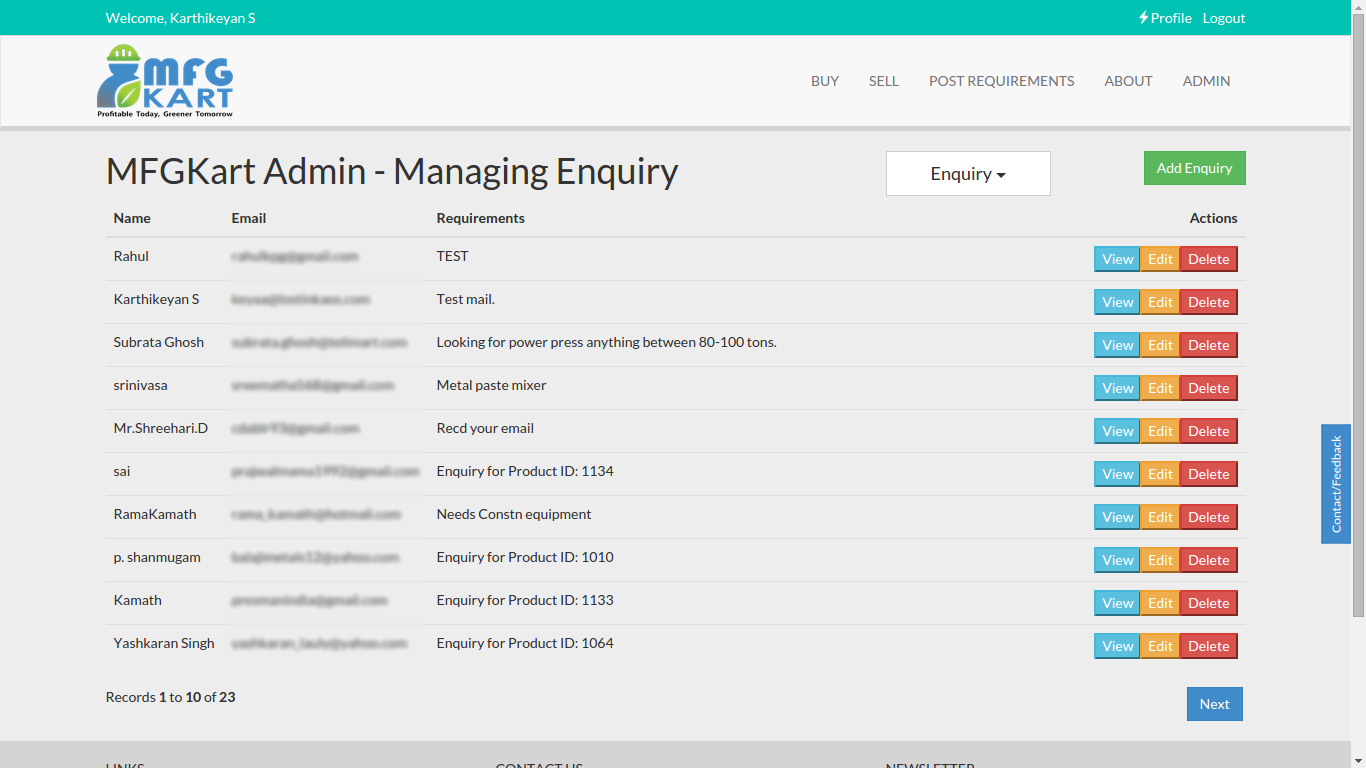
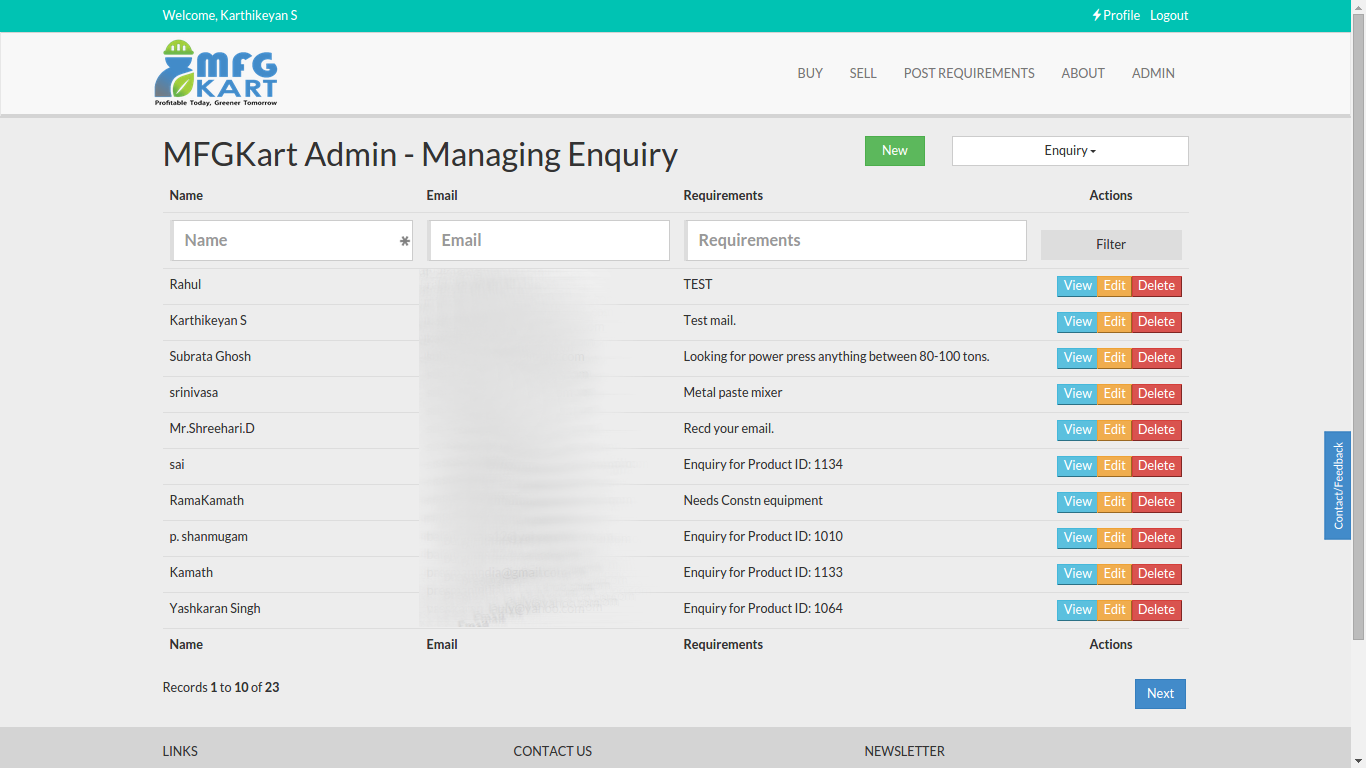
Updated screenshots to show filter feature

diff --git a/README.md b/README.md
@@ -72,9 +72,15 @@ You will have to check for user authentication and level before you send them to
 
 ### Screenshots ###
 
+Fitler forms fields take your webiste styling.
+
 ![kaoskeya:admin on site 1](https://raw.githubusercontent.com/kaoskeya/meteor-admin/master/screenshots/sample1.png "Sample Site 2")
 
 ![kaoskeya:admin on site 2](https://raw.githubusercontent.com/kaoskeya/meteor-admin/master/screenshots/sample2.png "Sample Site 1")
+
+Filtering example below.
+
+![kaoskeya:admin on site 3](https://raw.githubusercontent.com/kaoskeya/meteor-admin/master/screenshots/sample3.png "Sample Site 3")
 
 ## TODO ##
 
